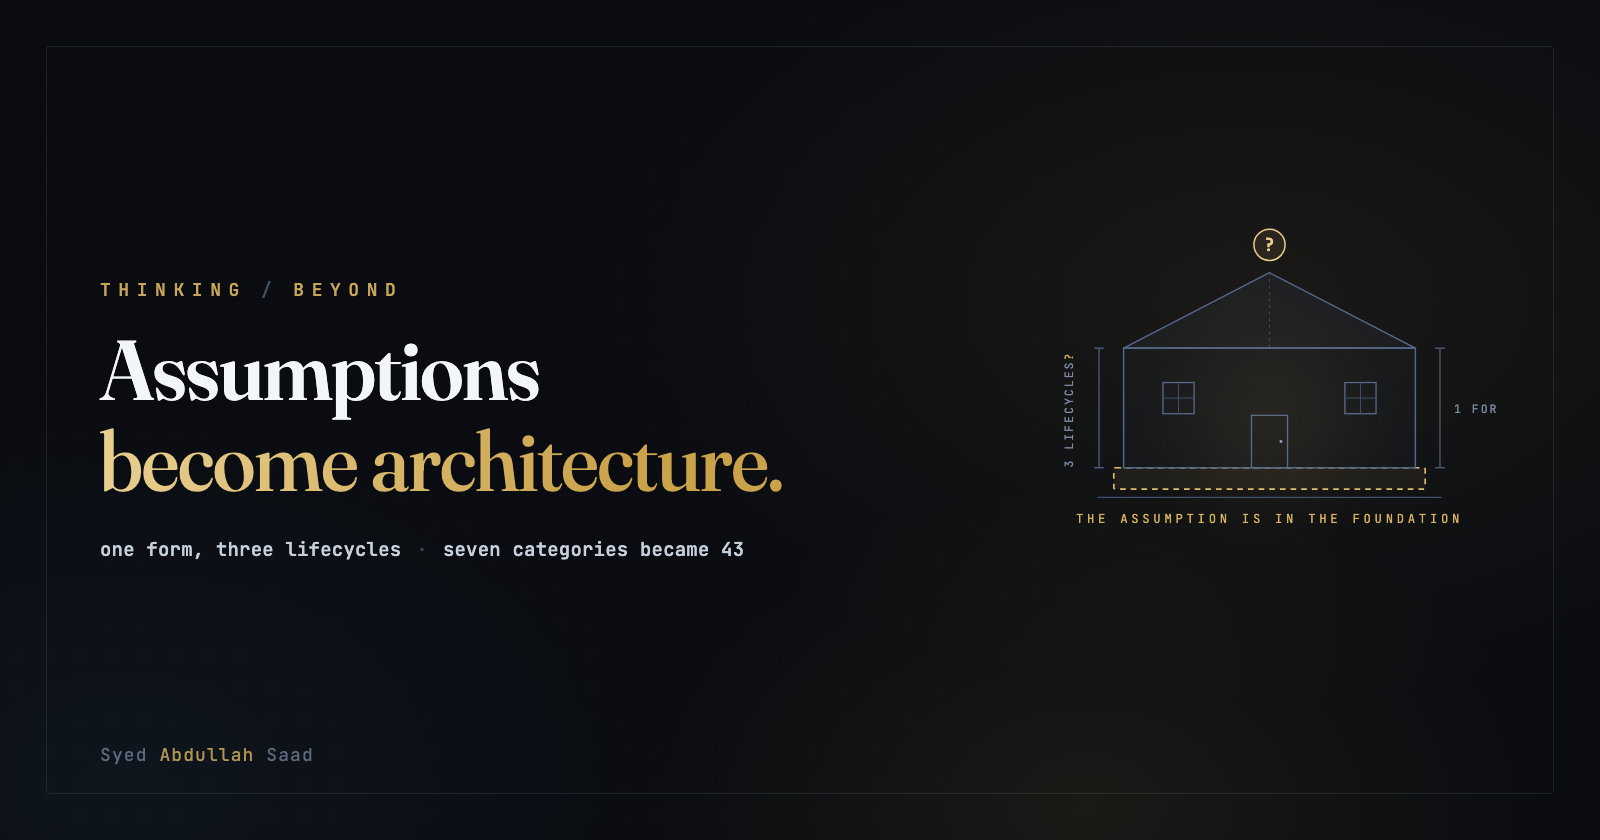
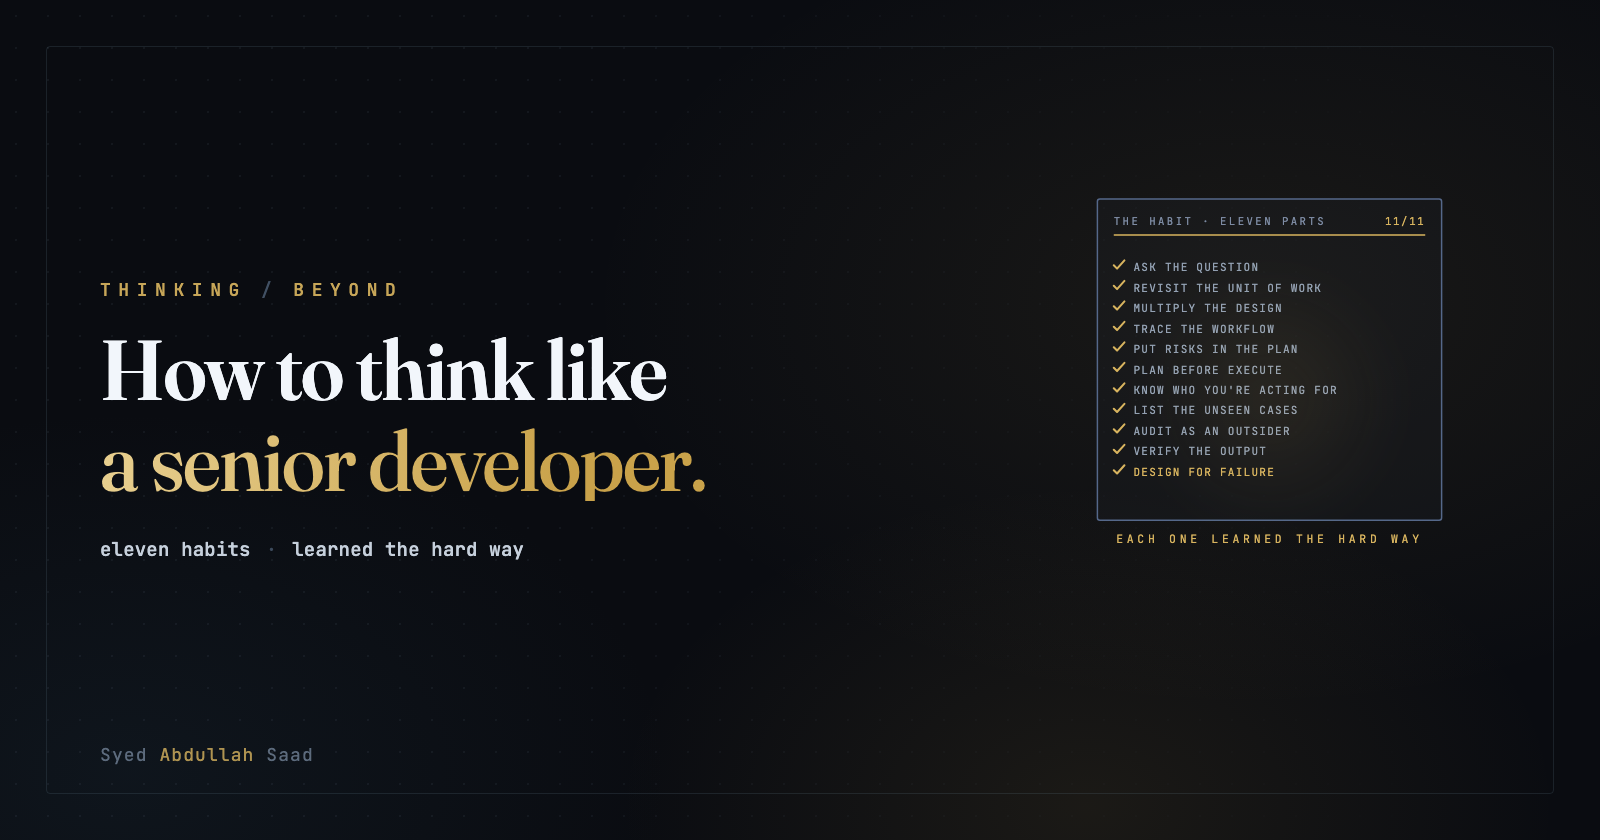
docs: post 07 cover redesign (eleven-habit spec sheet), cover attached to dev.to draft

diff --git a/posts/07-senior-thinking/cover-1600.html b/posts/07-senior-thinking/cover-1600.html
@@ -60,11 +60,11 @@
   }
   .byline span{color:var(--gold);opacity:0.8}
 
-  /* ---- art: blueprint house, gold dashed foundation = the assumption ---- */
+  /* ---- art: the eleven-habit spec sheet (technical plate) ---- */
   .art{position:relative;width:460px;height:640px;flex:none}
   .art svg{margin-top:76px}
   .art::before{
-    content:"";position:absolute;left:60px;top:150px;width:340px;height:340px;border-radius:50%;
+    content:"";position:absolute;left:40px;top:110px;width:380px;height:380px;border-radius:50%;
     background:radial-gradient(closest-side, rgba(216,180,95,0.09), transparent 70%);
     filter:blur(18px);
   }
@@ -77,48 +77,44 @@
   <div class="wrap">
     <div class="left">
       <div class="eyebrow">Thinking<span class="dot">/</span>Beyond</div>
-      <h1>Assumptions<span class="accent">become architecture.</span></h1>
-      <div class="meta"><b>one form, three lifecycles</b><span class="bar">·</span><b>seven categories became 43</b></div>
+      <h1>How to think like<span class="accent">a senior developer.</span></h1>
+      <div class="meta"><b>eleven habits</b><span class="bar">·</span><b>learned the hard way</b></div>
     </div>
 
     <div class="art">
       <!-- native viewBox scaling: no CSS transforms, so the SVG renders identically at any width -->
       <svg width="459" height="377" viewBox="0 0 560 460" fill="none" xmlns="http://www.w3.org/2000/svg">
-        <!-- ground -->
-        <line x1="70" y1="392" x2="490" y2="392" stroke="#3d4f6e" stroke-width="1.5"/>
-        <!-- foundation slab: dashed gold = the assumption -->
-        <rect x="90" y="356" width="380" height="26" rx="2" fill="rgba(216,180,95,0.07)" stroke="#e0bd6d" stroke-width="2" stroke-dasharray="7 6"/>
-        <!-- walls -->
-        <rect x="102" y="210" width="356" height="146" fill="rgba(85,104,138,0.06)" stroke="#55688a" stroke-width="1.8"/>
-        <!-- roof -->
-        <polygon points="102,210 280,118 458,210" fill="rgba(85,104,138,0.10)" stroke="#55688a" stroke-width="1.8" stroke-linejoin="round"/>
-        <line x1="280" y1="118" x2="280" y2="210" stroke="#3d4f6e" stroke-width="1.2" stroke-dasharray="3 5"/>
-        <!-- door -->
-        <rect x="258" y="292" width="44" height="64" fill="none" stroke="#55688a" stroke-width="1.6"/>
-        <circle cx="294" cy="324" r="1.8" fill="#8ba0c4"/>
-        <!-- windows -->
-        <rect x="150" y="252" width="38" height="38" fill="none" stroke="#55688a" stroke-width="1.6"/>
-        <line x1="150" y1="271" x2="188" y2="271" stroke="#3d4f6e" stroke-width="1.2"/>
-        <line x1="169" y1="252" x2="169" y2="290" stroke="#3d4f6e" stroke-width="1.2"/>
-        <rect x="372" y="252" width="38" height="38" fill="none" stroke="#55688a" stroke-width="1.6"/>
-        <line x1="372" y1="271" x2="410" y2="271" stroke="#3d4f6e" stroke-width="1.2"/>
-        <line x1="391" y1="252" x2="391" y2="290" stroke="#3d4f6e" stroke-width="1.2"/>
-        <!-- left dimension -->
-        <line x1="72" y1="210" x2="72" y2="356" stroke="#55688a" stroke-width="1.4"/>
-        <line x1="66" y1="210" x2="78" y2="210" stroke="#55688a" stroke-width="1.4"/>
-        <line x1="66" y1="356" x2="78" y2="356" stroke="#55688a" stroke-width="1.4"/>
-        <!-- right dimension -->
-        <line x1="488" y1="210" x2="488" y2="356" stroke="#55688a" stroke-width="1.4"/>
-        <line x1="482" y1="210" x2="494" y2="210" stroke="#55688a" stroke-width="1.4"/>
-        <line x1="482" y1="356" x2="494" y2="356" stroke="#55688a" stroke-width="1.4"/>
-        <!-- dimension labels (blueprint annotations) -->
-        <text x="40" y="285" transform="rotate(-90 40 285)" text-anchor="middle" font-family="JetBrains Mono, monospace" font-size="14" letter-spacing="2.5" fill="#7d8ba3">3 LIFECYCLES<tspan fill="#d8b45f">?</tspan></text>
-        <text x="505" y="289" font-family="JetBrains Mono, monospace" font-size="14" letter-spacing="2.5" fill="#7d8ba3">1 FORM</text>
-        <!-- ? badge hovering above the roof: the question that should have been asked before building -->
-        <circle cx="280" cy="84" r="19" stroke="#e8cf8f" stroke-width="1.8" fill="rgba(216,180,95,0.10)"/>
-        <text x="280" y="91" text-anchor="middle" font-family="JetBrains Mono, monospace" font-size="22" font-weight="600" fill="#e8cf8f">?</text>
+        <!-- spec sheet -->
+        <rect x="70" y="28" width="420" height="392" rx="3" fill="rgba(85,104,138,0.05)" stroke="#55688a" stroke-width="1.8"/>
+        <!-- header -->
+        <text x="90" y="60" font-family="JetBrains Mono, monospace" font-size="13" letter-spacing="3" fill="#7d8ba3">THE HABIT · ELEVEN PARTS</text>
+        <text x="470" y="60" text-anchor="end" font-family="JetBrains Mono, monospace" font-size="13" letter-spacing="2" fill="#d8b45f">11/11</text>
+        <line x1="90" y1="72" x2="470" y2="72" stroke="#d8b45f" stroke-width="2"/>
+        <!-- eleven checked habits -->
+        <path d="M90 109 l4 4 l9 -10" stroke="#d8b45f" stroke-width="2.5" stroke-linecap="round" stroke-linejoin="round" fill="none"/>
+        <text x="114" y="116" font-family="JetBrains Mono, monospace" font-size="13.5" letter-spacing="1.5" fill="#93a1b3">ASK THE QUESTION</text>
+        <path d="M90 134 l4 4 l9 -10" stroke="#d8b45f" stroke-width="2.5" stroke-linecap="round" stroke-linejoin="round" fill="none"/>
+        <text x="114" y="141" font-family="JetBrains Mono, monospace" font-size="13.5" letter-spacing="1.5" fill="#93a1b3">REVISIT THE UNIT OF WORK</text>
+        <path d="M90 159 l4 4 l9 -10" stroke="#d8b45f" stroke-width="2.5" stroke-linecap="round" stroke-linejoin="round" fill="none"/>
+        <text x="114" y="166" font-family="JetBrains Mono, monospace" font-size="13.5" letter-spacing="1.5" fill="#93a1b3">MULTIPLY THE DESIGN</text>
+        <path d="M90 184 l4 4 l9 -10" stroke="#d8b45f" stroke-width="2.5" stroke-linecap="round" stroke-linejoin="round" fill="none"/>
+        <text x="114" y="191" font-family="JetBrains Mono, monospace" font-size="13.5" letter-spacing="1.5" fill="#93a1b3">TRACE THE WORKFLOW</text>
+        <path d="M90 209 l4 4 l9 -10" stroke="#d8b45f" stroke-width="2.5" stroke-linecap="round" stroke-linejoin="round" fill="none"/>
+        <text x="114" y="216" font-family="JetBrains Mono, monospace" font-size="13.5" letter-spacing="1.5" fill="#93a1b3">PUT RISKS IN THE PLAN</text>
+        <path d="M90 234 l4 4 l9 -10" stroke="#d8b45f" stroke-width="2.5" stroke-linecap="round" stroke-linejoin="round" fill="none"/>
+        <text x="114" y="241" font-family="JetBrains Mono, monospace" font-size="13.5" letter-spacing="1.5" fill="#93a1b3">PLAN BEFORE EXECUTE</text>
+        <path d="M90 259 l4 4 l9 -10" stroke="#d8b45f" stroke-width="2.5" stroke-linecap="round" stroke-linejoin="round" fill="none"/>
+        <text x="114" y="266" font-family="JetBrains Mono, monospace" font-size="13.5" letter-spacing="1.5" fill="#93a1b3">KNOW WHO YOU'RE ACTING FOR</text>
+        <path d="M90 284 l4 4 l9 -10" stroke="#d8b45f" stroke-width="2.5" stroke-linecap="round" stroke-linejoin="round" fill="none"/>
+        <text x="114" y="291" font-family="JetBrains Mono, monospace" font-size="13.5" letter-spacing="1.5" fill="#93a1b3">LIST THE UNSEEN CASES</text>
+        <path d="M90 309 l4 4 l9 -10" stroke="#d8b45f" stroke-width="2.5" stroke-linecap="round" stroke-linejoin="round" fill="none"/>
+        <text x="114" y="316" font-family="JetBrains Mono, monospace" font-size="13.5" letter-spacing="1.5" fill="#93a1b3">AUDIT AS AN OUTSIDER</text>
+        <path d="M90 334 l4 4 l9 -10" stroke="#d8b45f" stroke-width="2.5" stroke-linecap="round" stroke-linejoin="round" fill="none"/>
+        <text x="114" y="341" font-family="JetBrains Mono, monospace" font-size="13.5" letter-spacing="1.5" fill="#93a1b3">VERIFY THE OUTPUT</text>
+        <path d="M90 359 l4 4 l9 -10" stroke="#d8b45f" stroke-width="2.5" stroke-linecap="round" stroke-linejoin="round" fill="none"/>
+        <text x="114" y="366" font-family="JetBrains Mono, monospace" font-size="13.5" letter-spacing="1.5" fill="#d8b45f">DESIGN FOR FAILURE</text>
         <!-- caption -->
-        <text x="280" y="424" text-anchor="middle" font-family="JetBrains Mono, monospace" font-size="15" letter-spacing="4.5" fill="#d8b45f">THE ASSUMPTION IS IN THE FOUNDATION</text>
+        <text x="280" y="448" text-anchor="middle" font-family="JetBrains Mono, monospace" font-size="14" letter-spacing="4.5" fill="#d8b45f">EACH ONE LEARNED THE HARD WAY</text>
       </svg>
     </div>
   </div>

diff --git a/posts/07-senior-thinking/cover.html b/posts/07-senior-thinking/cover.html
@@ -60,10 +60,10 @@
   }
   .byline span{color:var(--gold);opacity:0.8}
 
-  /* ---- art: blueprint house, gold dashed foundation = the assumption ---- */
+  /* ---- art: the eleven-habit spec sheet (technical plate) ---- */
   .art{position:relative;width:560px;height:640px;flex:none}
   .art::before{
-    content:"";position:absolute;left:80px;top:150px;width:400px;height:340px;border-radius:50%;
+    content:"";position:absolute;left:60px;top:110px;width:440px;height:380px;border-radius:50%;
     background:radial-gradient(closest-side, rgba(216,180,95,0.09), transparent 70%);
     filter:blur(18px);
   }
@@ -76,47 +76,43 @@
   <div class="wrap">
     <div class="left">
       <div class="eyebrow">Thinking<span class="dot">/</span>Beyond</div>
-      <h1>Assumptions<span class="accent">become architecture.</span></h1>
-      <div class="meta"><b>one form, three lifecycles</b><span class="bar">·</span><b>seven categories became 43</b></div>
+      <h1>How to think like<span class="accent">a senior developer.</span></h1>
+      <div class="meta"><b>eleven habits</b><span class="bar">·</span><b>learned the hard way</b></div>
     </div>
 
     <div class="art">
       <svg width="560" height="460" viewBox="0 0 560 460" fill="none" xmlns="http://www.w3.org/2000/svg">
-        <!-- ground -->
-        <line x1="70" y1="392" x2="490" y2="392" stroke="#3d4f6e" stroke-width="1.5"/>
-        <!-- foundation slab: dashed gold = the assumption -->
-        <rect x="90" y="356" width="380" height="26" rx="2" fill="rgba(216,180,95,0.07)" stroke="#e0bd6d" stroke-width="2" stroke-dasharray="7 6"/>
-        <!-- walls -->
-        <rect x="102" y="210" width="356" height="146" fill="rgba(85,104,138,0.06)" stroke="#55688a" stroke-width="1.8"/>
-        <!-- roof -->
-        <polygon points="102,210 280,118 458,210" fill="rgba(85,104,138,0.10)" stroke="#55688a" stroke-width="1.8" stroke-linejoin="round"/>
-        <line x1="280" y1="118" x2="280" y2="210" stroke="#3d4f6e" stroke-width="1.2" stroke-dasharray="3 5"/>
-        <!-- door -->
-        <rect x="258" y="292" width="44" height="64" fill="none" stroke="#55688a" stroke-width="1.6"/>
-        <circle cx="294" cy="324" r="1.8" fill="#8ba0c4"/>
-        <!-- windows -->
-        <rect x="150" y="252" width="38" height="38" fill="none" stroke="#55688a" stroke-width="1.6"/>
-        <line x1="150" y1="271" x2="188" y2="271" stroke="#3d4f6e" stroke-width="1.2"/>
-        <line x1="169" y1="252" x2="169" y2="290" stroke="#3d4f6e" stroke-width="1.2"/>
-        <rect x="372" y="252" width="38" height="38" fill="none" stroke="#55688a" stroke-width="1.6"/>
-        <line x1="372" y1="271" x2="410" y2="271" stroke="#3d4f6e" stroke-width="1.2"/>
-        <line x1="391" y1="252" x2="391" y2="290" stroke="#3d4f6e" stroke-width="1.2"/>
-        <!-- left dimension -->
-        <line x1="72" y1="210" x2="72" y2="356" stroke="#55688a" stroke-width="1.4"/>
-        <line x1="66" y1="210" x2="78" y2="210" stroke="#55688a" stroke-width="1.4"/>
-        <line x1="66" y1="356" x2="78" y2="356" stroke="#55688a" stroke-width="1.4"/>
-        <!-- right dimension -->
-        <line x1="488" y1="210" x2="488" y2="356" stroke="#55688a" stroke-width="1.4"/>
-        <line x1="482" y1="210" x2="494" y2="210" stroke="#55688a" stroke-width="1.4"/>
-        <line x1="482" y1="356" x2="494" y2="356" stroke="#55688a" stroke-width="1.4"/>
-        <!-- dimension labels (blueprint annotations) -->
-        <text x="40" y="285" transform="rotate(-90 40 285)" text-anchor="middle" font-family="JetBrains Mono, monospace" font-size="14" letter-spacing="2.5" fill="#7d8ba3">3 LIFECYCLES<tspan fill="#d8b45f">?</tspan></text>
-        <text x="505" y="289" font-family="JetBrains Mono, monospace" font-size="14" letter-spacing="2.5" fill="#7d8ba3">1 FORM</text>
-        <!-- ? badge hovering above the roof: the question that should have been asked before building -->
-        <circle cx="280" cy="84" r="19" stroke="#e8cf8f" stroke-width="1.8" fill="rgba(216,180,95,0.10)"/>
-        <text x="280" y="91" text-anchor="middle" font-family="JetBrains Mono, monospace" font-size="22" font-weight="600" fill="#e8cf8f">?</text>
+        <!-- spec sheet -->
+        <rect x="70" y="28" width="420" height="392" rx="3" fill="rgba(85,104,138,0.05)" stroke="#55688a" stroke-width="1.8"/>
+        <!-- header -->
+        <text x="90" y="60" font-family="JetBrains Mono, monospace" font-size="13" letter-spacing="3" fill="#7d8ba3">THE HABIT · ELEVEN PARTS</text>
+        <text x="470" y="60" text-anchor="end" font-family="JetBrains Mono, monospace" font-size="13" letter-spacing="2" fill="#d8b45f">11/11</text>
+        <line x1="90" y1="72" x2="470" y2="72" stroke="#d8b45f" stroke-width="2"/>
+        <!-- eleven checked habits -->
+        <path d="M90 109 l4 4 l9 -10" stroke="#d8b45f" stroke-width="2.5" stroke-linecap="round" stroke-linejoin="round" fill="none"/>
+        <text x="114" y="116" font-family="JetBrains Mono, monospace" font-size="13.5" letter-spacing="1.5" fill="#93a1b3">ASK THE QUESTION</text>
+        <path d="M90 134 l4 4 l9 -10" stroke="#d8b45f" stroke-width="2.5" stroke-linecap="round" stroke-linejoin="round" fill="none"/>
+        <text x="114" y="141" font-family="JetBrains Mono, monospace" font-size="13.5" letter-spacing="1.5" fill="#93a1b3">REVISIT THE UNIT OF WORK</text>
+        <path d="M90 159 l4 4 l9 -10" stroke="#d8b45f" stroke-width="2.5" stroke-linecap="round" stroke-linejoin="round" fill="none"/>
+        <text x="114" y="166" font-family="JetBrains Mono, monospace" font-size="13.5" letter-spacing="1.5" fill="#93a1b3">MULTIPLY THE DESIGN</text>
+        <path d="M90 184 l4 4 l9 -10" stroke="#d8b45f" stroke-width="2.5" stroke-linecap="round" stroke-linejoin="round" fill="none"/>
+        <text x="114" y="191" font-family="JetBrains Mono, monospace" font-size="13.5" letter-spacing="1.5" fill="#93a1b3">TRACE THE WORKFLOW</text>
+        <path d="M90 209 l4 4 l9 -10" stroke="#d8b45f" stroke-width="2.5" stroke-linecap="round" stroke-linejoin="round" fill="none"/>
+        <text x="114" y="216" font-family="JetBrains Mono, monospace" font-size="13.5" letter-spacing="1.5" fill="#93a1b3">PUT RISKS IN THE PLAN</text>
+        <path d="M90 234 l4 4 l9 -10" stroke="#d8b45f" stroke-width="2.5" stroke-linecap="round" stroke-linejoin="round" fill="none"/>
+        <text x="114" y="241" font-family="JetBrains Mono, monospace" font-size="13.5" letter-spacing="1.5" fill="#93a1b3">PLAN BEFORE EXECUTE</text>
+        <path d="M90 259 l4 4 l9 -10" stroke="#d8b45f" stroke-width="2.5" stroke-linecap="round" stroke-linejoin="round" fill="none"/>
+        <text x="114" y="266" font-family="JetBrains Mono, monospace" font-size="13.5" letter-spacing="1.5" fill="#93a1b3">KNOW WHO YOU'RE ACTING FOR</text>
+        <path d="M90 284 l4 4 l9 -10" stroke="#d8b45f" stroke-width="2.5" stroke-linecap="round" stroke-linejoin="round" fill="none"/>
+        <text x="114" y="291" font-family="JetBrains Mono, monospace" font-size="13.5" letter-spacing="1.5" fill="#93a1b3">LIST THE UNSEEN CASES</text>
+        <path d="M90 309 l4 4 l9 -10" stroke="#d8b45f" stroke-width="2.5" stroke-linecap="round" stroke-linejoin="round" fill="none"/>
+        <text x="114" y="316" font-family="JetBrains Mono, monospace" font-size="13.5" letter-spacing="1.5" fill="#93a1b3">AUDIT AS AN OUTSIDER</text>
+        <path d="M90 334 l4 4 l9 -10" stroke="#d8b45f" stroke-width="2.5" stroke-linecap="round" stroke-linejoin="round" fill="none"/>
+        <text x="114" y="341" font-family="JetBrains Mono, monospace" font-size="13.5" letter-spacing="1.5" fill="#93a1b3">VERIFY THE OUTPUT</text>
+        <path d="M90 359 l4 4 l9 -10" stroke="#d8b45f" stroke-width="2.5" stroke-linecap="round" stroke-linejoin="round" fill="none"/>
+        <text x="114" y="366" font-family="JetBrains Mono, monospace" font-size="13.5" letter-spacing="1.5" fill="#d8b45f">DESIGN FOR FAILURE</text>
         <!-- caption -->
-        <text x="280" y="424" text-anchor="middle" font-family="JetBrains Mono, monospace" font-size="15" letter-spacing="4.5" fill="#d8b45f">THE ASSUMPTION IS IN THE FOUNDATION</text>
+        <text x="280" y="448" text-anchor="middle" font-family="JetBrains Mono, monospace" font-size="14" letter-spacing="4.5" fill="#d8b45f">EACH ONE LEARNED THE HARD WAY</text>
       </svg>
     </div>
   </div>

diff --git a/WORKLOG.md b/WORKLOG.md
@@ -94,6 +94,16 @@ Append a dated block whenever we do blog work.
 
 ---
 
+## 2026-08-03 (session 9i — post 07 COVER REDESIGN: spec-sheet concept, approved + uploaded)
+
+- Saad: "I think the cover needs to change as well because now it's more than just assumptions point." The blueprint-house art told only the assumptions story; the article is now an eleven-habit piece.
+- **New concept (approved "perfect"):** technical spec-sheet of the eleven habits. Sheet rect + "THE HABIT · ELEVEN PARTS" header with gold rule, "11/11" counter, eleven gold check marks with mono labels (ASK THE QUESTION ... DESIGN FOR FAILURE, last row gold-accented), caption "EACH ONE LEARNED THE HARD WAY" (echoes the lede). Cover title text now matches the article title: "How to think like / a senior developer." Meta: "eleven habits · learned the hard way". Same ink/dot-grid/gold brand; eyebrow + byline unchanged.
+- Both versions re-rendered (2000x840 + 1600x840 via viewBox scaling), 37/37 ad-hoc structural+pixel checks passed (11 ticks, rule, caption in both renders; zero blueprint-house leftovers), temp script cleaned up.
+- Saad uploaded cover.png to dev.to; I set cover_image in devto.md frontmatter to the upload URL and PUT to draft 4304603 — verified from API (cover-set=true, published:false).
+- **Still required before live:** Saad's out-loud voice pass, flip published:true, cross-posts, profile/portfolio cards.
+
+---
+
 ## 2026-07-28 (session 8 — post 07 senior-thinking interview + first draft)
 
 - **Post 07 interview resumed** in `posts/07-senior-thinking/notes.md`. Saad supplied the core view:

diff --git a/posts/07-senior-thinking/devto.md b/posts/07-senior-thinking/devto.md
@@ -3,7 +3,7 @@ title: How to Think Like a Senior Developer
 published: false
 description: We built one form for the catalog, the stock, and the listings, and nobody asked whether they shared a lifecycle. The client demo proved us wrong. Senior thinking is the habit of catching assumptions before they become architecture.
 tags: programming, career, softwareengineering, productivity
-cover_image:
+cover_image: https://dev-to-uploads.s3.us-east-2.amazonaws.com/uploads/articles/19a8dnxms71kgzw26iqb.png
 canonical_url:
 ---
 
